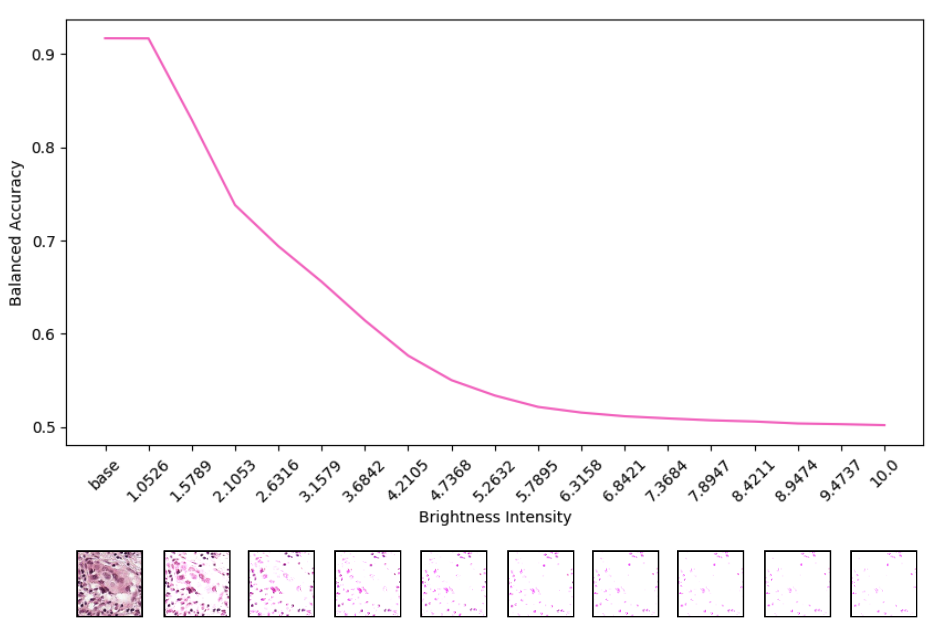
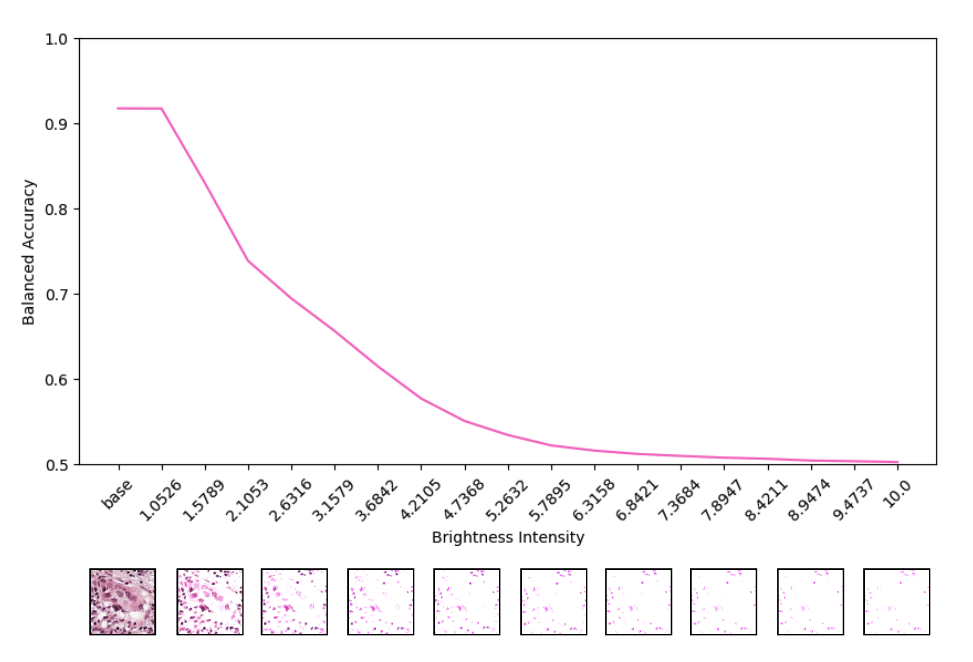
preliminary results

diff --git a/README.md b/README.md
@@ -1,7 +1,7 @@
 # Foundation Model Robustness Study for Computational Pathology
 
 <p align="center">
-    <img src="assets/graphs/Preliminary-Results-Accuracy.png" alt="preliminary-results" style="border-radius: 8px; width: 95%;">
+    <img src="assets/graphs/Preliminary-Results.png" alt="preliminary-results" style="border-radius: 8px; width: 95%;">
 </p>
 
 ## Overview
